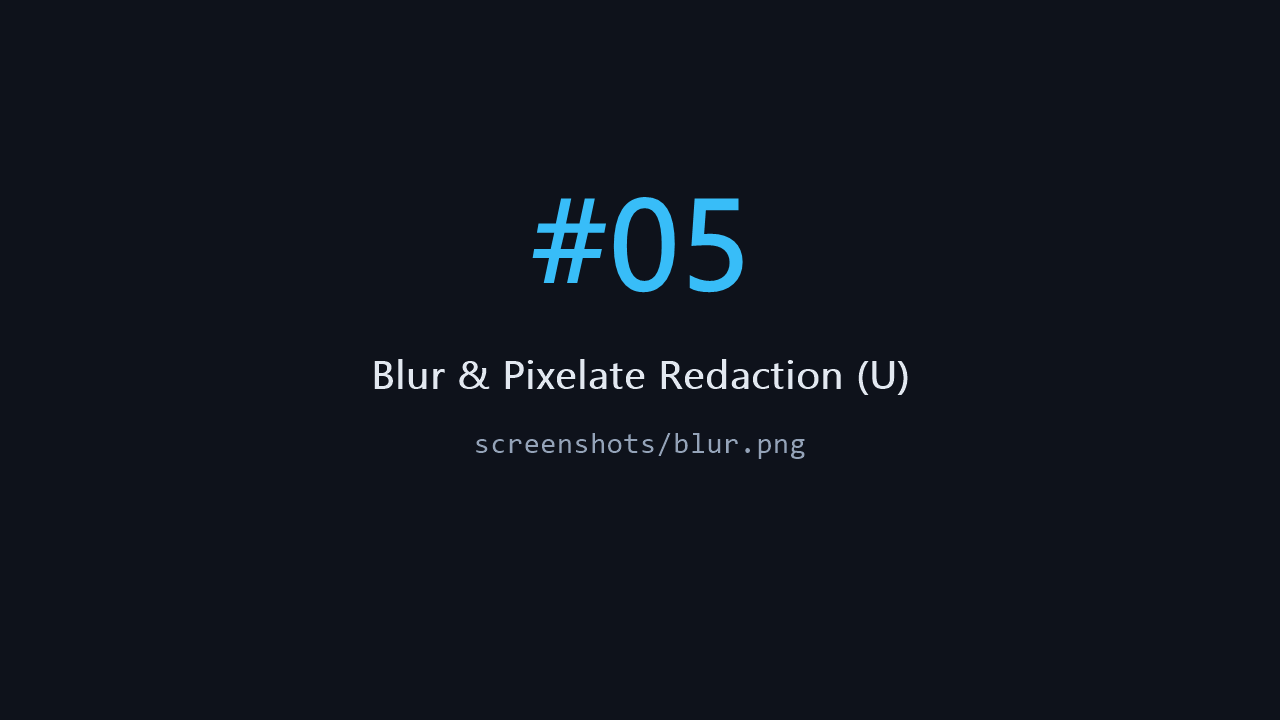
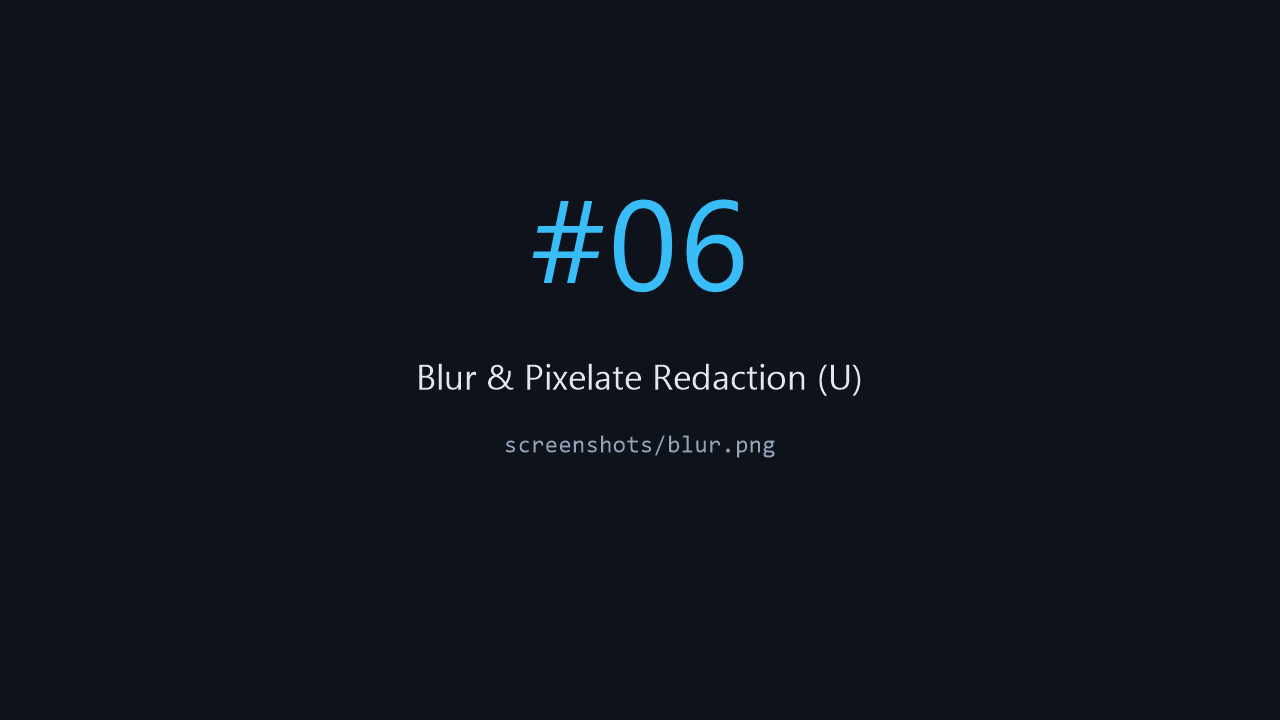
feat: add native animated image playback and cultural etymology section to documentation

Changed region(s): [[0.2812, 0.4889, 0.7188, 0.55], [0.4062, 0.275, 0.5938, 0.3972], [0.375, 0.6111, 0.625, 0.6417]]

diff --git a/README.md b/README.md
@@ -37,6 +37,48 @@
 
 ---
 
+## 📖 Cultural Etymology Trivia
+
+<div align="center">
+
+  <h3><strong>BUKAAKE</strong> &nbsp;<code>[ boo • kah • ah • keh ]</code> &nbsp;•&nbsp; <span>ꦧꦸꦏꦲꦏꦺ</span></h3>
+
+  <table>
+    <tr>
+      <td align="left" width="30%" valign="top">
+        <sub><strong>ROOT VERB (JAVANESE)</strong></sub><br /><br />
+        <strong>Buka / Bukak</strong><br />
+        <sub>To open, unlock, or reveal (<em>me-re-kah</em>).</sub>
+      </td>
+      <td align="center" width="5%" valign="middle">
+        <h3><strong>+</strong></h3>
+      </td>
+      <td align="left" width="30%" valign="top">
+        <sub><strong>IMPERATIVE SUFFIX</strong></sub><br /><br />
+        <strong>-ake</strong> <sub>(-aken)</sub><br />
+        <sub>Action suffix meaning <em>to open for me</em> (equivalent to <em>"bukakan"</em> in Indonesian).</sub>
+      </td>
+      <td align="center" width="5%" valign="middle">
+        <h3><strong>=</strong></h3>
+      </td>
+      <td align="left" width="30%" valign="top">
+        <sub><strong>LITERAL TRANSLATION</strong></sub><br /><br />
+        <strong>“Open It Up!”</strong><br />
+        <sub>Instant, friction-free image loading—open it for me without stutter.</sub>
+      </td>
+    </tr>
+  </table>
+
+  <p>
+    While internet culture might lead certain minds down another rabbit hole, <strong>Bukaake</strong> is an authentic, everyday Javanese phrase (<em>bukak-ake → bukaake</em>). It is a playful subversion and simultaneously the most honest, literal name possible for software whose sole mission is to open your high-resolution photos instantaneously without friction.
+  </p>
+
+</div>
+
+<br />
+
+---
+
 ## 💡 Why Bukaake?
 
 Most photo viewers on Windows today are slow to launch, cluttered with heavy toolbars, or trap your pictures inside thick, distracting window frames. Some even force you to pay for extra codecs just to open photos from your iPhone.
@@ -45,7 +87,7 @@ Most photo viewers on Windows today are slow to launch, cluttered with heavy too
 
 - 🪟 **Zero Distractions**: Truly borderless and translucent. Your desktop wallpaper stays softly dimmed in the background while your photo takes center stage.
 - ⚡ **Instant Launch & Standby**: Opens in the blink of an eye (~5 MB single portable file) and trims idle tray memory down to ~8–15 MB RAM.
-- 📷 **49+ Formats & Camera RAW**: Native iPhone HEIC/HEIF (100% free), 24+ RAW camera formats, and 3D VFX textures—zero external codecs needed.
+- 📷 **49+ Formats, Camera RAW & Animated WebP/GIF**: Native iPhone HEIC/HEIF (100% free), animated WebP/GIF/APNG/AVIF (`Space`), 24+ RAW camera formats, and 3D VFX textures—zero external codecs needed.
 - 🎨 **5-Tool Creative & Redaction Suite**: Blur/Pixelate (`U`), Smooth & Galaxy Pen (`D`), Vector Text (`T`), Laser-Guided Crop (`C`), and Real-Time Filters (`E`) with an on-screen Shortcut HUD.
 - 📸 **Built-in Snip, OCR & GPU Record**: Capture regions, extract text with native Windows OCR, pick pixel colors, or record 60 FPS H.264 MP4 clips with <2% CPU overhead.
 - 🗑 **Stress-Free & Safe**: Send unwanted photos straight to your **Windows Recycle Bin** with `Delete`—easily restore them if you change your mind.
@@ -76,7 +118,6 @@ Open any picture and Bukaake softly dims your surrounding desktop wallpaper with
 Bukaake natively opens **49 image formats** with zero external dependencies or paid extensions—from everyday WebP and Apple HEIC to full-sensor Camera RAW and 3D VFX textures.
 
 - **Supported Formats**: `PNG`, `JPG`, `WebP`, `GIF`, `SVG`, `AVIF`, `HEIC`/`HEIF`, `ARW`, `CR2`, `CR3`, `NEF`, `DNG`, `RAF`, `RW2`, `ORF`, `EXR`, `HDR`, `DDS`, `TGA`, `QOI`, and more.
-- **Animated Playback (`Space`)**: Smoothly plays animated **GIF**, **WebP**, **APNG**, and **AVIF** directly on the canvas with full zoom, pan, rotate, and fullscreen support (`Space` to play/pause; files over 30 MB fall back to a static preview).
 - **Instant Preview + Full Sensor Develop (`Q`)**: Opens embedded RAW previews in ~15ms, or press `Q` to unpack full uncompressed sensor data with an ambient titlebar progress beam.
 - **EXIF Telemetry Drawer (`I`)**: Inspect camera body, lens, focal length, aperture, shutter speed, ISO, and GPS metadata.
 - **5-Slot Predictive Prefetch**: Folder neighbors pre-load silently in the background for zero-latency arrow navigation.
@@ -87,7 +128,21 @@ Bukaake natively opens **49 image formats** with zero external dependencies or p
 
 ---
 
-### 3. 📸 Screen Snipper, Native OCR & Loupe Eyedropper
+### 3. 🎞 Animated WebP, GIF, APNG & AVIF Playback (`Space`)
+
+Watch high-framerate animated images and transparent stickers smoothly without frame drops or memory bloat.
+
+- **Native WebCodecs Streaming**: Hardware-accelerated playback for animated **WebP**, **GIF**, **APNG**, and **AVIF** with 1-frame lookahead and instant `VideoFrame` memory cleanup.
+- **Full Canvas Transform & Filter Support**: Zoom, pan, rotate, flip, apply real-time color filters, or view transparent animations over your desktop in Mode 2 fullscreen.
+- **Play/Pause & 30 MB Memory Guardrail**: Press `Space` anytime to toggle play/pause with toast feedback, auto-pause when minimized to standby, and safely preview oversized files (>30 MB) as static images.
+
+<p align="center">
+  <img width="1280" alt="Animated WebP and GIF Playback" src="screenshots/animated.png" />
+</p>
+
+---
+
+### 4. 📸 Screen Snipper, Native OCR & Loupe Eyedropper
 
 Capture anything on your screen without launching heavy third-party tools.
 
@@ -102,7 +157,7 @@ Capture anything on your screen without launching heavy third-party tools.
 
 ---
 
-### 4. 🎥 Hardware GPU Screen Recorder
+### 5. 🎥 Hardware GPU Screen Recorder
 
 Record silky-smooth desktop or region videos directly to native `.mp4` files with minimal system impact.
 
@@ -116,7 +171,7 @@ Record silky-smooth desktop or region videos directly to native `.mp4` files wit
 
 ---
 
-### 5. 🔒 Blur & Pixelate Redaction (`U`)
+### 6. 🔒 Blur & Pixelate Redaction (`U`)
 
 Hide sensitive details or softly blur backgrounds directly inside the viewer before sharing.
 
@@ -130,7 +185,7 @@ Hide sensitive details or softly blur backgrounds directly inside the viewer bef
 
 ---
 
-### 6. ✍ Freehand Pen, Highlighter & Galaxy Auto-Smooth (`D` / `S`)
+### 7. ✍ Freehand Pen, Highlighter & Galaxy Auto-Smooth (`D` / `S`)
 
 Sketch annotations, highlight details, or draw expressive calligraphic strokes right over your photos.
 
@@ -144,7 +199,7 @@ Sketch annotations, highlight details, or draw expressive calligraphic strokes r
 
 ---
 
-### 7. ✂ Laser-Guided Crop (`C`)
+### 8. ✂ Laser-Guided Crop (`C`)
 
 Reframe photos effortlessly with precision snapping and instant aspect ratios.
 
@@ -158,7 +213,7 @@ Reframe photos effortlessly with precision snapping and instant aspect ratios.
 
 ---
 
-### 8. 🔤 Vector Typography (`T`)
+### 9. 🔤 Vector Typography (`T`)
 
 Add crisp, scalable text captions and badges without opening an external editor.
 
@@ -172,7 +227,7 @@ Add crisp, scalable text captions and badges without opening an external editor.
 
 ---
 
-### 9. 🎛 Real-Time Color Filters (`E`) & On-Screen Shortcut HUD
+### 10. 🎛 Real-Time Color Filters (`E`) & On-Screen Shortcut HUD
 
 Fine-tune lighting and color at 60 FPS while keeping every tool shortcut within reach.
 
@@ -186,7 +241,7 @@ Fine-tune lighting and color at 60 FPS while keeping every tool shortcut within 
 
 ---
 
-### 10. 🎨 Stroke-Free Dark & Light Themes
+### 11. 🎨 Stroke-Free Dark & Light Themes
 
 Designed from the ground up for modern Windows frosted-glass aesthetics with zero 1px border outlines.
 
@@ -199,7 +254,7 @@ Designed from the ground up for modern Windows frosted-glass aesthetics with zer
 
 ---
 
-### 11. 🌐 Multi-Language & Portable Windows Integration
+### 12. 🌐 Multi-Language & Portable Windows Integration
 
 Built as a single ~5 MB standalone executable (or Microsoft Store MSIX) with zero external runtimes.
 

diff --git a/AGENTS.md b/AGENTS.md
@@ -38,7 +38,7 @@ All agents working on this repository **MUST** strictly enforce these five non-n
   - **Elevated Floating Toolbar**: Control dock elevated to `bottom: 80px !important;` to avoid colliding with the Windows taskbar, with a 140px bottom mouse-hover threshold.
   - **Checkerboard Disabled in Mode 2**: Canvas checkerboard toggle is disabled/dimmed to preserve desktop immersion.
 - **Picasa Idle Mouse Fade**: 2.5s of stationary mouse fades all UI chrome to `opacity: 0` (`pointer-events: none`); mouse movement restores controls immediately.
-- **Navigation & Ergonomics**: Smooth mouse wheel zoom anchored to cursor; `Up`/`Down` arrow keys for intuitive centered/anchored zoom in and zoom out (matching Picasa navigation alongside mouse wheel); `Left`/`Right` arrow keys for directory navigation; quick keys `F` (fit), `1` (1:1), `,`/`.` (rotate), `Esc` (layered: closes open tool popovers, exits active editor, or exits/closes viewer), `C` (crop), `D` (draw), `U` (blur/pixelate), `T` (text), `E` (filters), `I` (EXIF info), `Q` (full RAW decode), `Delete` (Recycle Bin), `Shift+Delete` (permanent delete), `Ctrl+V` (paste image).
+- **Navigation & Ergonomics**: Smooth mouse wheel zoom anchored to cursor; `Up`/`Down` arrow keys for intuitive centered/anchored zoom in and zoom out (matching Picasa navigation alongside mouse wheel); `Left`/`Right` arrow keys for directory navigation; quick keys `Space` (play/pause animated image), `F` (fit), `1` (1:1), `,`/`.` (rotate), `Esc` (layered: closes open tool popovers, exits active editor, or exits/closes viewer), `C` (crop), `D` (draw), `S` (cycle drawing auto-smooth), `U` (blur/pixelate), `[`/`]` (step brush size), `T` (text), `E` (filters), `I` (EXIF info), `Q` (full RAW decode), `Delete` (Recycle Bin), `Shift+Delete` (permanent delete), `Ctrl+V` (paste image).
 
 ### Pillar 5: Strict Modularity Architecture (< 300 Lines per File)
 - **Hard Rule**: No source file (`.js`, `.css`, `.rs`) may exceed **300 lines of code**. Files approaching this limit must be proactively split into focused modules.
@@ -63,7 +63,7 @@ src/
 â”‚   â””â”€â”€ tools/                  # Editing tool sub-toolbars (blur-toolbar)
 â”œâ”€â”€ core/                # Canvas & Image Math Engines (< 300 lines each)
 â”‚   â”œâ”€â”€ blur/                   # Non-stacking blur/pixelate tool & offscreen renderer
-â”‚   â”œâ”€â”€ canvas/                 # Canvas viewer engine, events, FLIP & helpers
+â”‚   â”œâ”€â”€ canvas/                 # Canvas viewer engine, animated image player, events, FLIP & helpers
 â”‚   â”œâ”€â”€ crop/                   # Precision crop box & laser magnetic guides
 â”‚   â”œâ”€â”€ draw/                   # Freehand pen, highlighter, stroke smoother & cursor ring
 â”‚   â”œâ”€â”€ filters/                # Real-time color adjustments processor
@@ -85,6 +85,7 @@ src/
 â”œâ”€â”€ app.js               # Main viewer bootstrap coordinator (â‰¤ 350 lines)
 â”œâ”€â”€ settings-app.js      # Standalone settings window coordinator (â‰¤ 350 lines)
 â””â”€â”€ snipper-app.js       # Dedicated overlay window coordinator (â‰¤ 300 lines)
+screenshots/             # Feature showcase & README preview assets
 packaging/               # Microsoft Store & Packaging Automation
 â”œâ”€â”€ store-config.json    # Store identity & package configuration
 â””â”€â”€ msix/                # AppxManifest.template.xml & visual tile assets
@@ -186,7 +187,7 @@ src-tauri/src/
 - **Unified Hotkeys (`hotkey-service.js`, `hotkeys.rs`)**:
   - Coordinates global Windows shortcuts and in-app triggers for instant capture without input conflicts.
 
-### Camera RAW & VFX Subsystem
+### Camera RAW, Animated Images & VFX Subsystem
 - **Statically Linked LibRaw Engine (`LibRaw 0.21.2`, `raw_reader.rs`)**:
   - Compiles LibRaw statically via `build.rs` into single portable binary without external DLL dependencies.
   - **4-Tier Pipeline**: Tier 1 (Instant embedded JPEG preview ~15ms), Tier 2 (Full sensor unpack & demosaicing via `Q`), Tier 3 (Byte-stream scanner for legacy GPR/X3F), Tier 4 (Pure Rust linear DNG fallback).
@@ -200,6 +201,10 @@ src-tauri/src/
 - **Titlebar Ambient Glowing Loading Beam (`titlebar-loader.js`, `titlebar-loader.css`)**:
   - Dual-theme continuous dual-train laser animation across titlebar bottom (`Mode 1`) or monitor top edge (`Mode 2`) indicates background RAW decoding without layout shifts.
   - Smooth emerald flash (`#34d399`) upon completion before cross-fading away; titlebar stays pinned and steady during background decodes.
+- **Native WebCodecs Animated Image Playback (`animated-image-player.js`, `canvas-viewer.js`, `shortcuts.js`, `canvas-tools-manager.js`, `image-saver.js`, `toast.css`)**:
+  - **Zero-Dependency Streaming Decoder**: Streams animated GIF, WebP, APNG, and AVIF frames via `ImageDecoder` with 1-frame lookahead (`_prefetchNext`), monotonic `sessionId` race cancellation, and immediate `VideoFrame.close()` GPU/RAM disposal.
+  - **Memory Guardrails & Frame Timing**: Enforces a 30 MB pre-decode size guardrail (`MAX_ANIMATED_FILE_BYTES`) falling back to static frame 0 with a localized warning toast (`toasts.animatedTooLarge`), clamps legacy `< 20ms` GIF delays to `100ms`, and respects container `repetitionCount` loop limits.
+  - **Interactive Playback & Static-Export Safety**: `Space` toggles play/pause with `ri-play-circle-line` / `ri-pause-circle-line` toast feedback, auto-pauses on `visibilitychange` and tray standby, renders live `VideoFrame` instances through `CanvasViewer.render()` (`this.frameSource || this.img`) with full pan/zoom/rotate/flip/filter/Mode 2 support, and pauses with a localized warning (`toasts.animatedStaticExport`) when entering any editor or saving.
 
 ### Precision Crop, Drawing, Blur & Editing Exclusivity
 - **Precision Crop (`cropper.js`, `crop-snapping.js`, `crop.css`)**:

diff --git a/history.md b/history.md
@@ -20,6 +20,7 @@
 
 ## Change Log
 
+- **2026-11-14** | `AGENTS.md`, `README.md`, `screenshots/animated.png`, `screenshots/*.png`: Synchronized `AGENTS.md` with current `v1.4.0` state (documented `Space`, `S`, and `[`/`]` hotkeys, `animated-image-player.js`, WebCodecs animated playback subsystem specs, and `screenshots/`); added `## Cultural Etymology Trivia` and dedicated `### 3. Animated WebP, GIF, APNG & AVIF Playback (Space)` section in `README.md`; generated `screenshots/animated.png` (`#03`) and renumbered placeholder cards `#04`–`#12`.
 - **2026-11-14** | `animated-image-player.js`, `canvas-viewer.js`, `app.js`, `shortcuts.js`, `canvas-tools-manager.js`, `image-saver.js`, `toast.css`, `locales/*.json`: Added native WebCodecs `ImageDecoder` playback for animated GIF, WebP, APNG, and AVIF with zero external dependencies: (1) Created `animated-image-player.js` (200 lines) with streaming 1-frame lookahead, immediate `VideoFrame.close()` cleanup, 30 MB pre-decode size guardrail falling back to static frame 0 with toast warning, `< 20ms -> 100ms` legacy GIF delay clamp, and `repetitionCount` support; (2) Added `Space` play/pause toggle with `ri-play-circle-line` / `ri-pause-circle-line` toast feedback in `shortcuts.js` and `app.js`, plus visibility/standby auto-pause; (3) Added static-export warning toast when entering edit tools or saving animated images; (4) Refined `.toast` pill height (`5px 11px`, `12.5px` font, `17px` icon) in `toast.css`; (5) Localized all 4 toast keys across 5 locale files and verified `npm run build` and Pillar 5 line budgets.
 
 - **2026-11-13** | `AGENTS.md`: Synchronized architecture manual with current project state (added `blur-toolbar`, `core/blur`, `stroke-smoother.js`, `tool-hud`, `jv-malangan.json`, `scripts/i18n-tool.js`, `bootstrapper.rs`, `foreground.rs`, `window_transition.rs`, 5-tool exclusivity with layered `Esc` and `1280 × 720` editing expansion, `740 × 520` image-loaded minimum bounds, and Mode 1 ↔ Mode 2 FLIP transitions).
